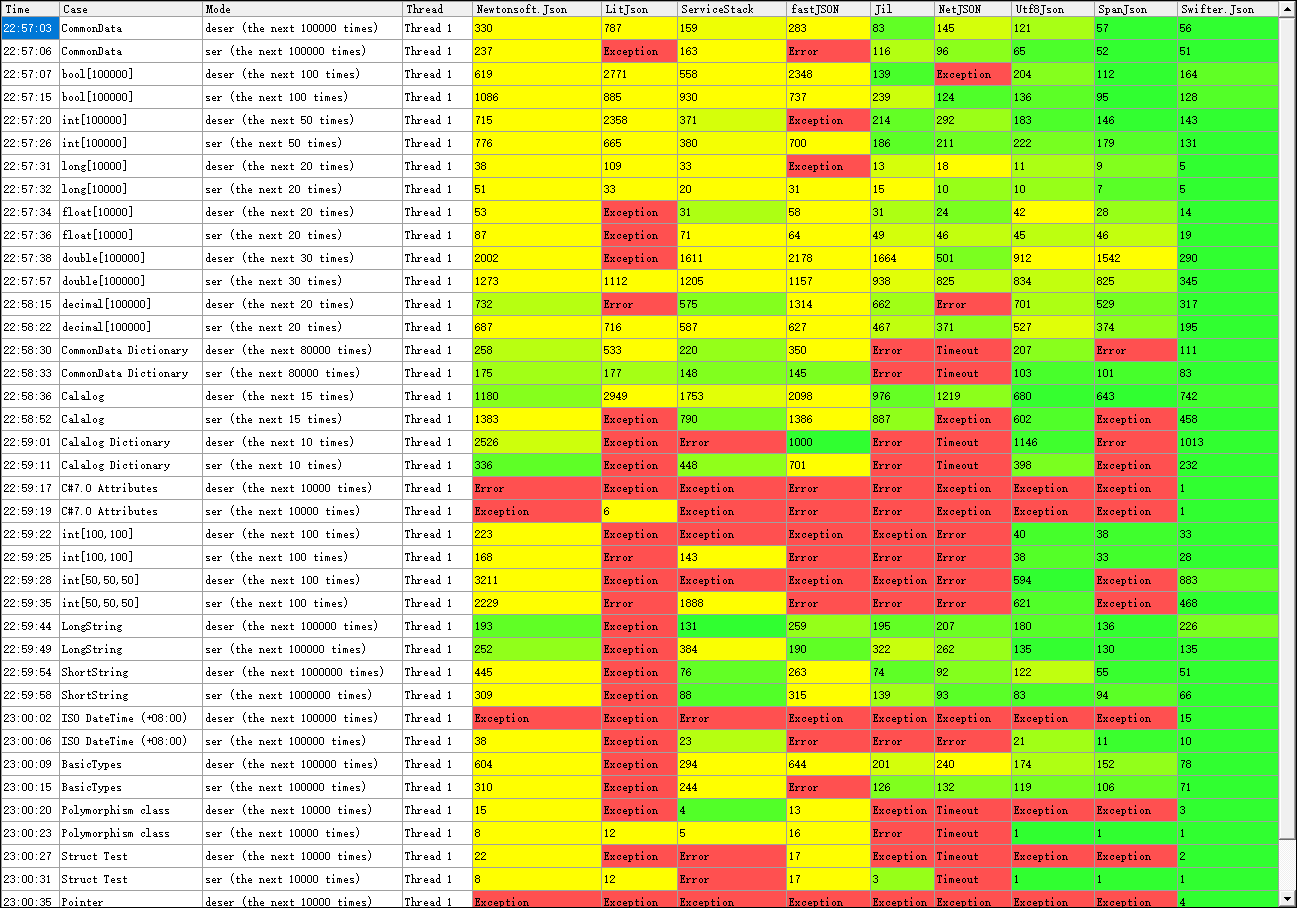
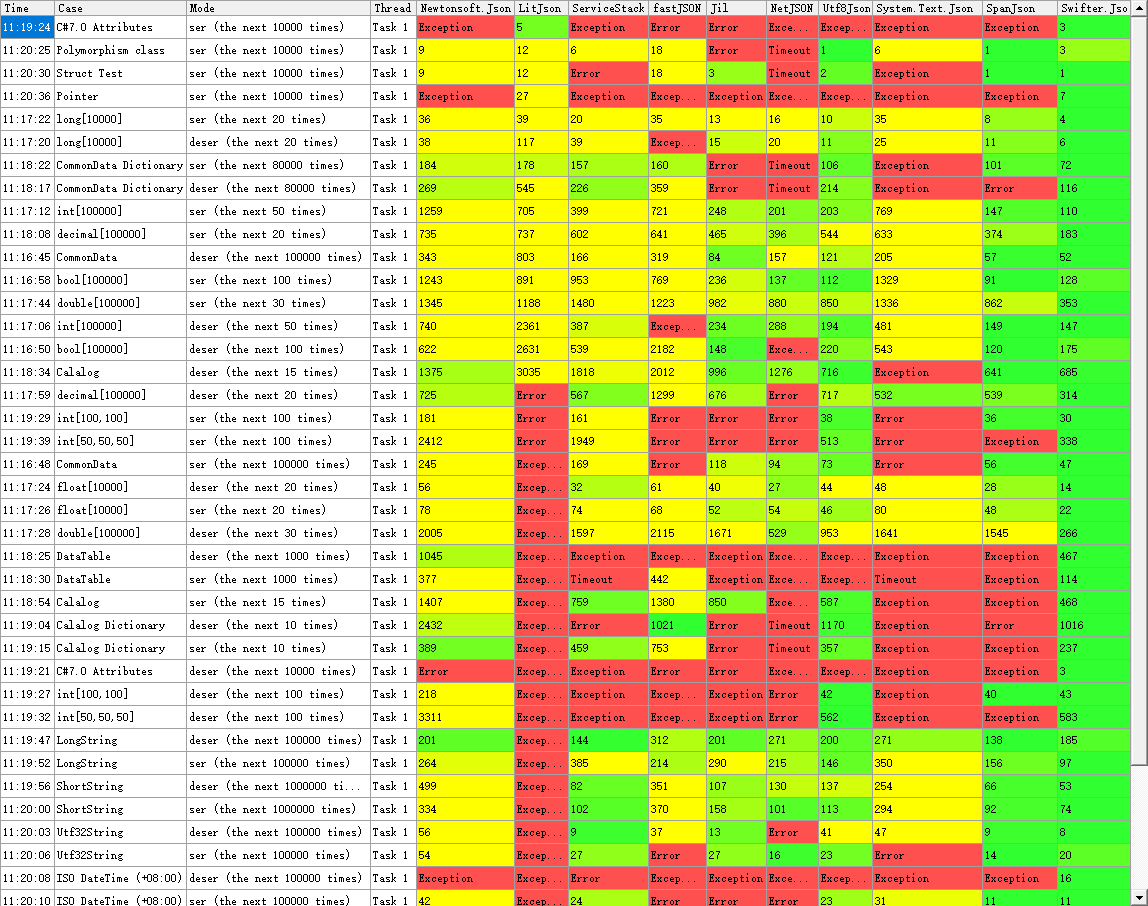
1.2.9

diff --git a/Swifter.Test/MyForm.cs b/Swifter.Test/MyForm.cs
@@ -58,28 +58,28 @@ namespace Swifter.Test
 
             testers.Add(new SwifterTester());
 
-            //tests.Add(new CommonDataTest(100000));
-            //tests.Add(new BooleanTest(100000, 100));
-            //tests.Add(new Int32Test(100000, 50));
-            //tests.Add(new Int64Test(10000, 20));
-            //tests.Add(new FloatTest(10000, 20));
-            //tests.Add(new DoubleTest(100000, 30));
-            //tests.Add(new DecimalTest(100000, 20));
-            //tests.Add(new CommonDataDictionaryTest(80000));
+            tests.Add(new CommonDataTest(100000));
+            tests.Add(new BooleanTest(100000, 100));
+            tests.Add(new Int32Test(100000, 50));
+            tests.Add(new Int64Test(10000, 20));
+            tests.Add(new FloatTest(10000, 20));
+            tests.Add(new DoubleTest(100000, 30));
+            tests.Add(new DecimalTest(100000, 20));
+            tests.Add(new CommonDataDictionaryTest(80000));
             tests.Add(new DataTableTest());
-            //tests.Add(new CalalogTest(15));
-            //tests.Add(new CalalogDictionaryTest(10));
-            //tests.Add(new CSharp7Test());
-            //tests.Add(new TwoDimensionaArrayTest());
-            //tests.Add(new ThreeDimensionalArray());
-            //tests.Add(new LongStringTest());
-            //tests.Add(new ShortStringTest());
-            //tests.Add(new Utf32StringTest());
-            //tests.Add(new DateTimeTest());
-            //tests.Add(new BasicTypesTest(100000));
-            //tests.Add(new PolymorphismTest());
-            //tests.Add(new StructTest());
-            //tests.Add(new UnsafeTest());
+            tests.Add(new CalalogTest(15));
+            tests.Add(new CalalogDictionaryTest(10));
+            tests.Add(new CSharp7Test());
+            tests.Add(new TwoDimensionaArrayTest());
+            tests.Add(new ThreeDimensionalArray());
+            tests.Add(new LongStringTest());
+            tests.Add(new ShortStringTest());
+            tests.Add(new Utf32StringTest());
+            tests.Add(new DateTimeTest());
+            tests.Add(new BasicTypesTest(100000));
+            tests.Add(new PolymorphismTest());
+            tests.Add(new StructTest());
+            tests.Add(new UnsafeTest());
 
 
             results.Columns.Add(TimeName);

diff --git a/Swifter.Test/Program.cs b/Swifter.Test/Program.cs
@@ -18,11 +18,11 @@ namespace Swifter.Test
     {
         public static void Main()
         {
-            //FastObjectRW.DefaultOptions &= ~FastObjectRWOptions.IndexId64;
-            //FastObjectRW.DefaultOptions &= ~FastObjectRWOptions.IgnoreCase;
+            FastObjectRW.DefaultOptions &= ~FastObjectRWOptions.IndexId64;
+            FastObjectRW.DefaultOptions &= ~FastObjectRWOptions.IgnoreCase;
 
-            //DataTableRW.DefaultOptions = DataTableRWOptions.SetFirstRowsTypeToColumnTypes | 
-            //    DataTableRWOptions.WriteToArrayFromBeginningSecondRows;
+            DataTableRW.DefaultOptions = DataTableRWOptions.SetFirstRowsTypeToColumnTypes |
+                DataTableRWOptions.WriteToArrayFromBeginningSecondRows;
 
             Application.Run(new MyForm());
         }
